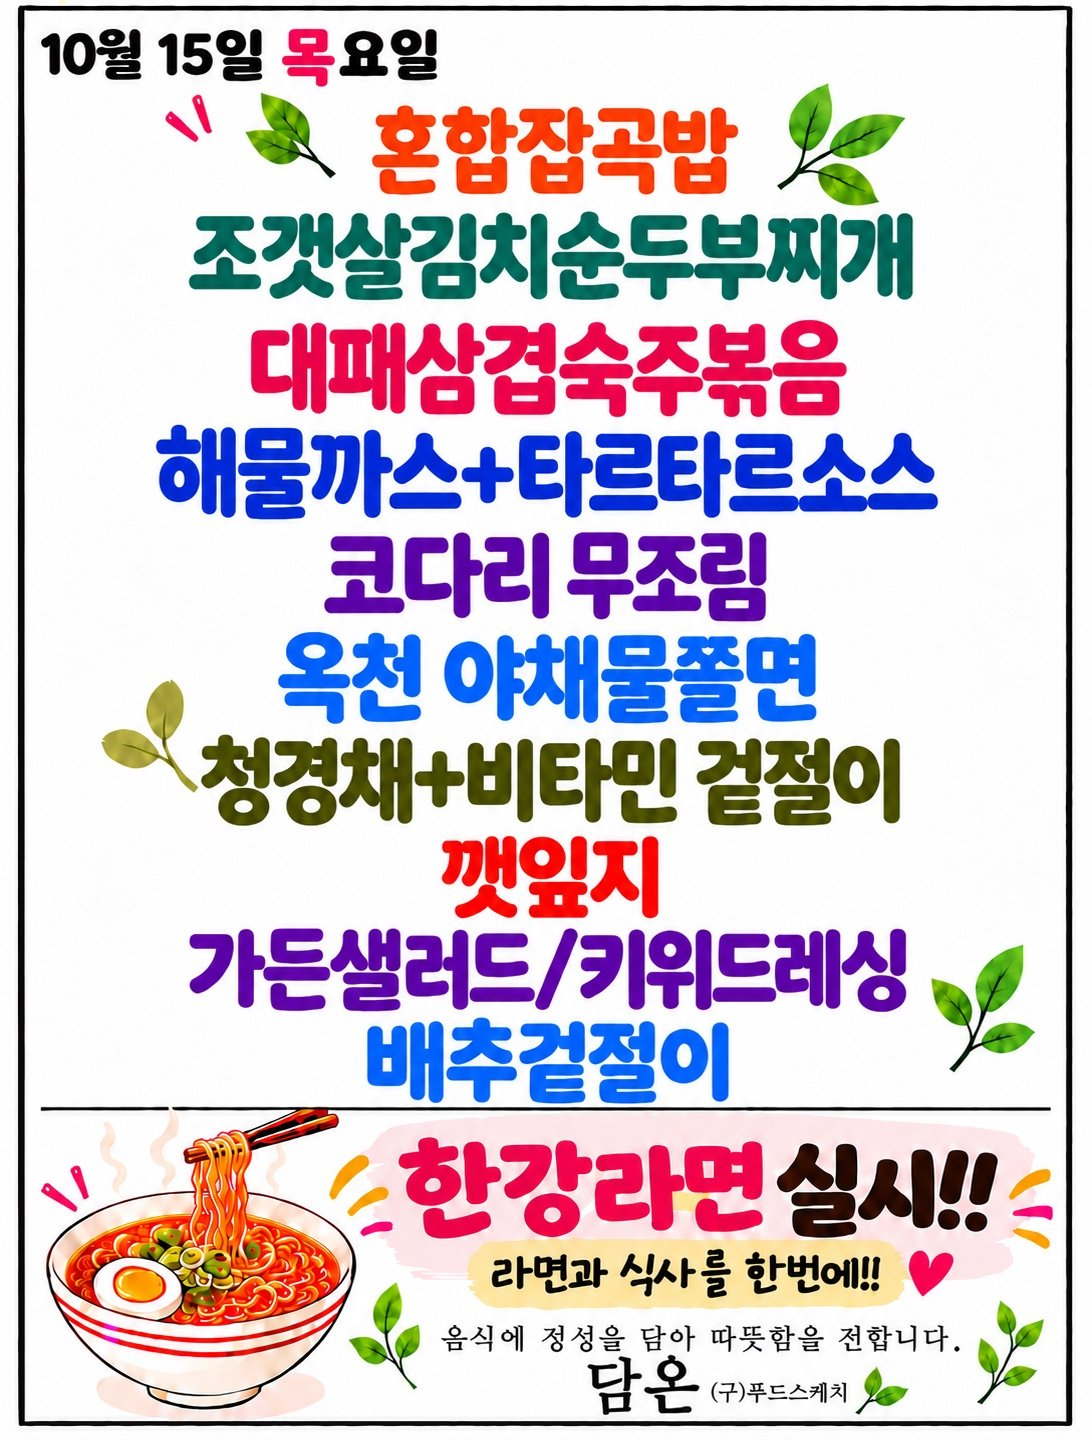
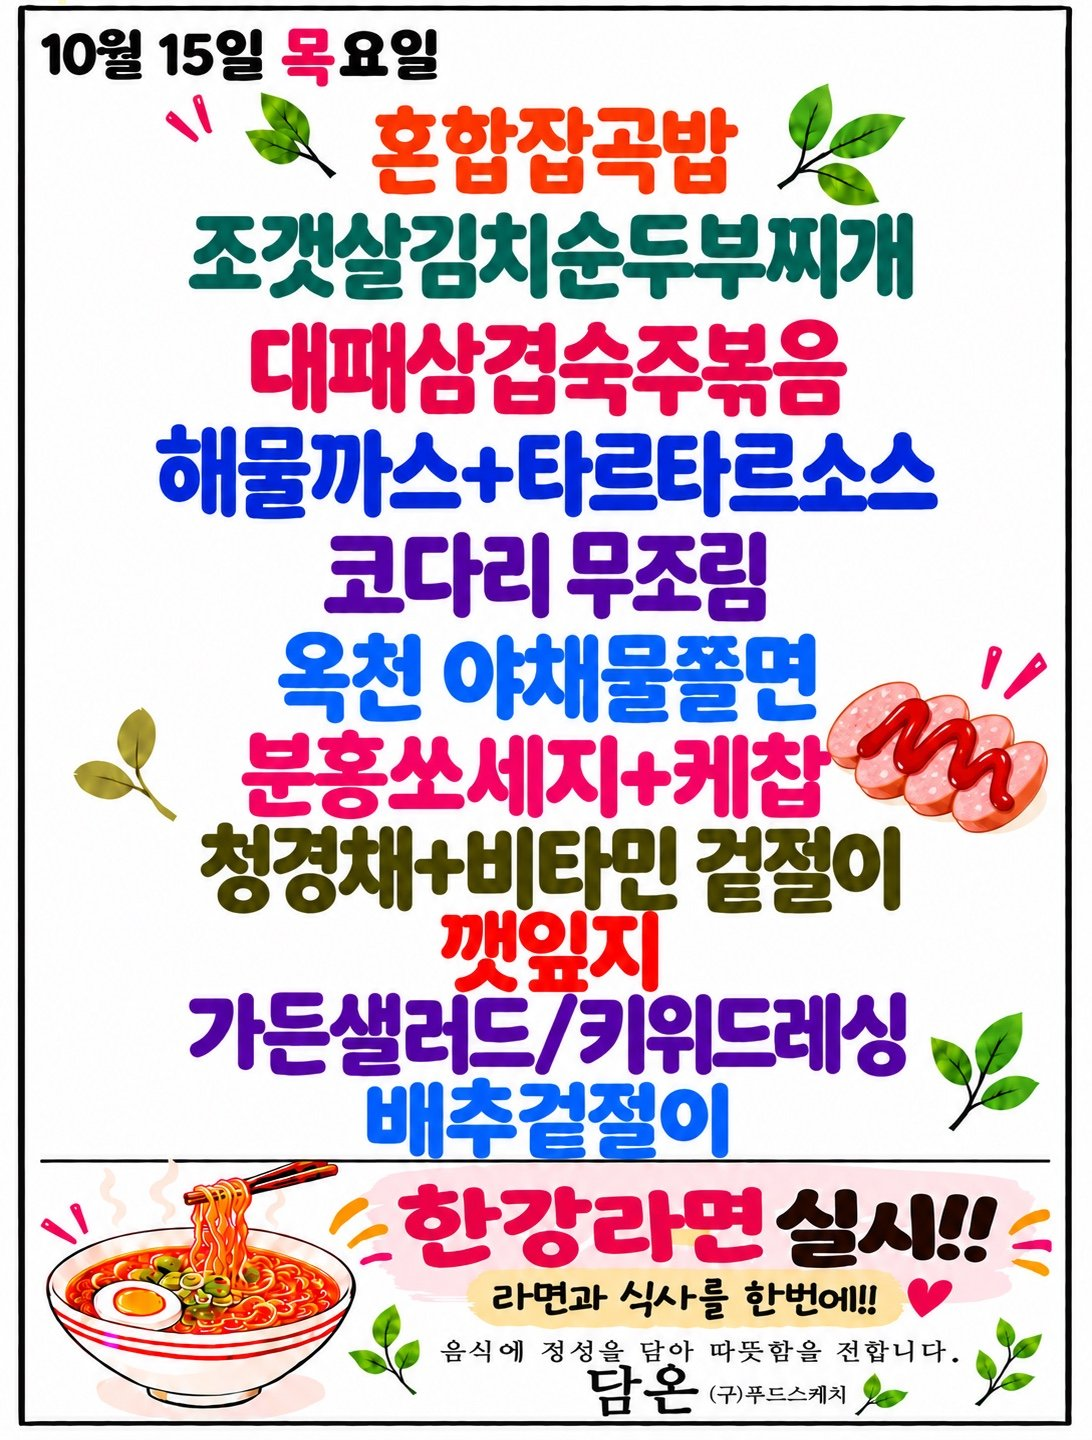
Update menu board assets

diff --git a/menu-today/index.html b/menu-today/index.html
@@ -209,7 +209,7 @@
 
     <section class="meta-bar">
       <div class="meta-card"><div class="meta-label">기준 날짜</div><div class="meta-value">2026년 10월 15일 목요일</div></div>
-      <div class="meta-card"><div class="meta-label">최종 가져온 시간</div><div class="meta-value">2026-10-15 10:13:12</div></div>
+      <div class="meta-card"><div class="meta-label">최종 가져온 시간</div><div class="meta-value">2026-10-15 10:18:12</div></div>
       <div class="meta-card"><div class="meta-label">확인 완료</div><div class="meta-value">9개 식당</div></div>
       <div class="meta-card"><div class="meta-label">준비중</div><div class="meta-value">3개 채널</div></div>
     </section>
@@ -225,7 +225,7 @@
             <div class="sub">현대테라타워 가산DK</div>
           </div>
         </div>
-        <div class="menu-inline-image"><img src="./images/imeal.png" alt="아이밀 식단 이미지"></div><ul><li>후리가케밥</li><li>크림스프 &amp; 크루통</li><li>경양식함박스테이크</li><li>&amp; 데미소스</li><li>계란후라이</li><li>삼색푸실리냉파스타</li><li>시즈닝감자튀김</li><li>청경채겉절이</li><li>가든샐러드</li><li>타사음료</li></ul>
+        <div class="menu-inline-image"><img src="./images/imeal.png" alt="아이밀 식단 이미지"></div><ul><li>후리가케밥</li><li>크림스프 &amp; 크루통</li><li>경양식함박스테이크</li><li>&amp; 데미소스</li><li>계란후라이</li><li>삼색푸실리냉파스타</li><li>시즈닝감자튀김</li><li>청경채겉절이</li><li>가든샐러드 &amp; 흑임자D</li><li>타사음료</li></ul>
       </article>
 
       <article class="restaurant-card">
@@ -295,7 +295,7 @@
             <div class="sub">에이스테크노타워10차</div>
           </div>
         </div>
-        <div class="menu-inline-image"><img src="./images/thefoodsketch.png" alt="더푸드스케치 식단 이미지"></div><ul><li>호. 혼합잡곡밥 fe</li><li>대패삼겹숙주볶음</li><li>해물까스+타르타르소스</li><li>코다리 무조림</li><li>청경채+비타민 겉절이</li><li>가든샐러드 / 키위드레싱 of</li><li>… _ 배추겉절이</li><li>혼합잡곡밥</li></ul>
+        <div class="menu-inline-image"><img src="./images/thefoodsketch.png" alt="더푸드스케치 식단 이미지"></div><ul><li>호. 혼합잡곡밥 fe</li><li>대패삼겸숙주볶음</li><li>해물까스+타르타르소스</li><li>코다리 무조림</li><li>가든샐러드 / 키위드레싱 yg</li><li>배추겉절이</li><li>~ ) &lt;한강라면실시</li><li>혼합잡곡밥</li></ul>
       </article>
 
       <article class="restaurant-card">

diff --git a/guro-menu/index.html b/guro-menu/index.html
@@ -32,7 +32,7 @@
   </header>
   <section class="meta">
     <div><small>기준 날짜</small><strong>2026년 10월 15일 목요일</strong></div>
-    <div><small>최종 갱신</small><strong>2026-10-15 10:13:25</strong></div>
+    <div><small>최종 갱신</small><strong>2026-10-15 10:18:24</strong></div>
     <div><small>등록 식당</small><strong>5개</strong></div>
   </section>
   <div class="notice">공개 카카오 채널의 메뉴 이미지를 자동 수집하고 OCR로 정리합니다. 텍스트에 오타가 있을 수 있으니 식단 이미지를 함께 확인해 주세요.</div>
